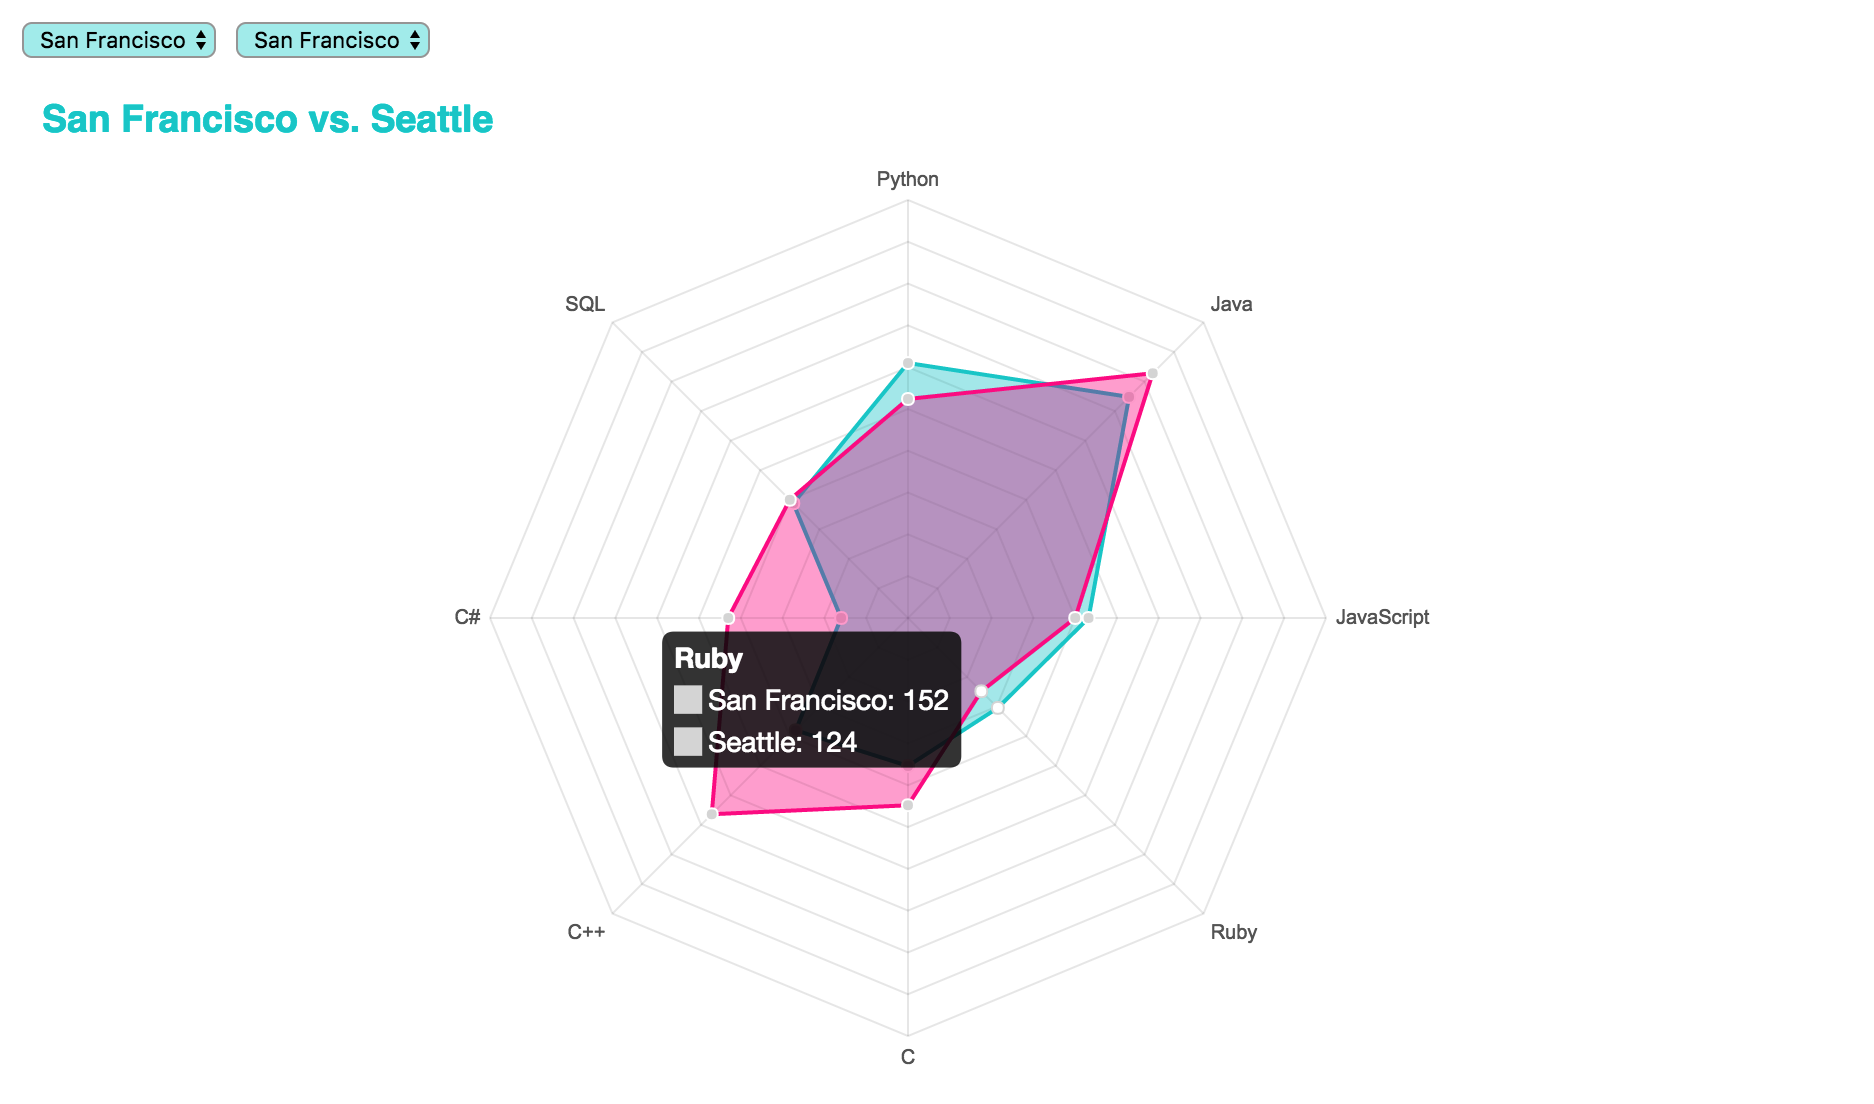
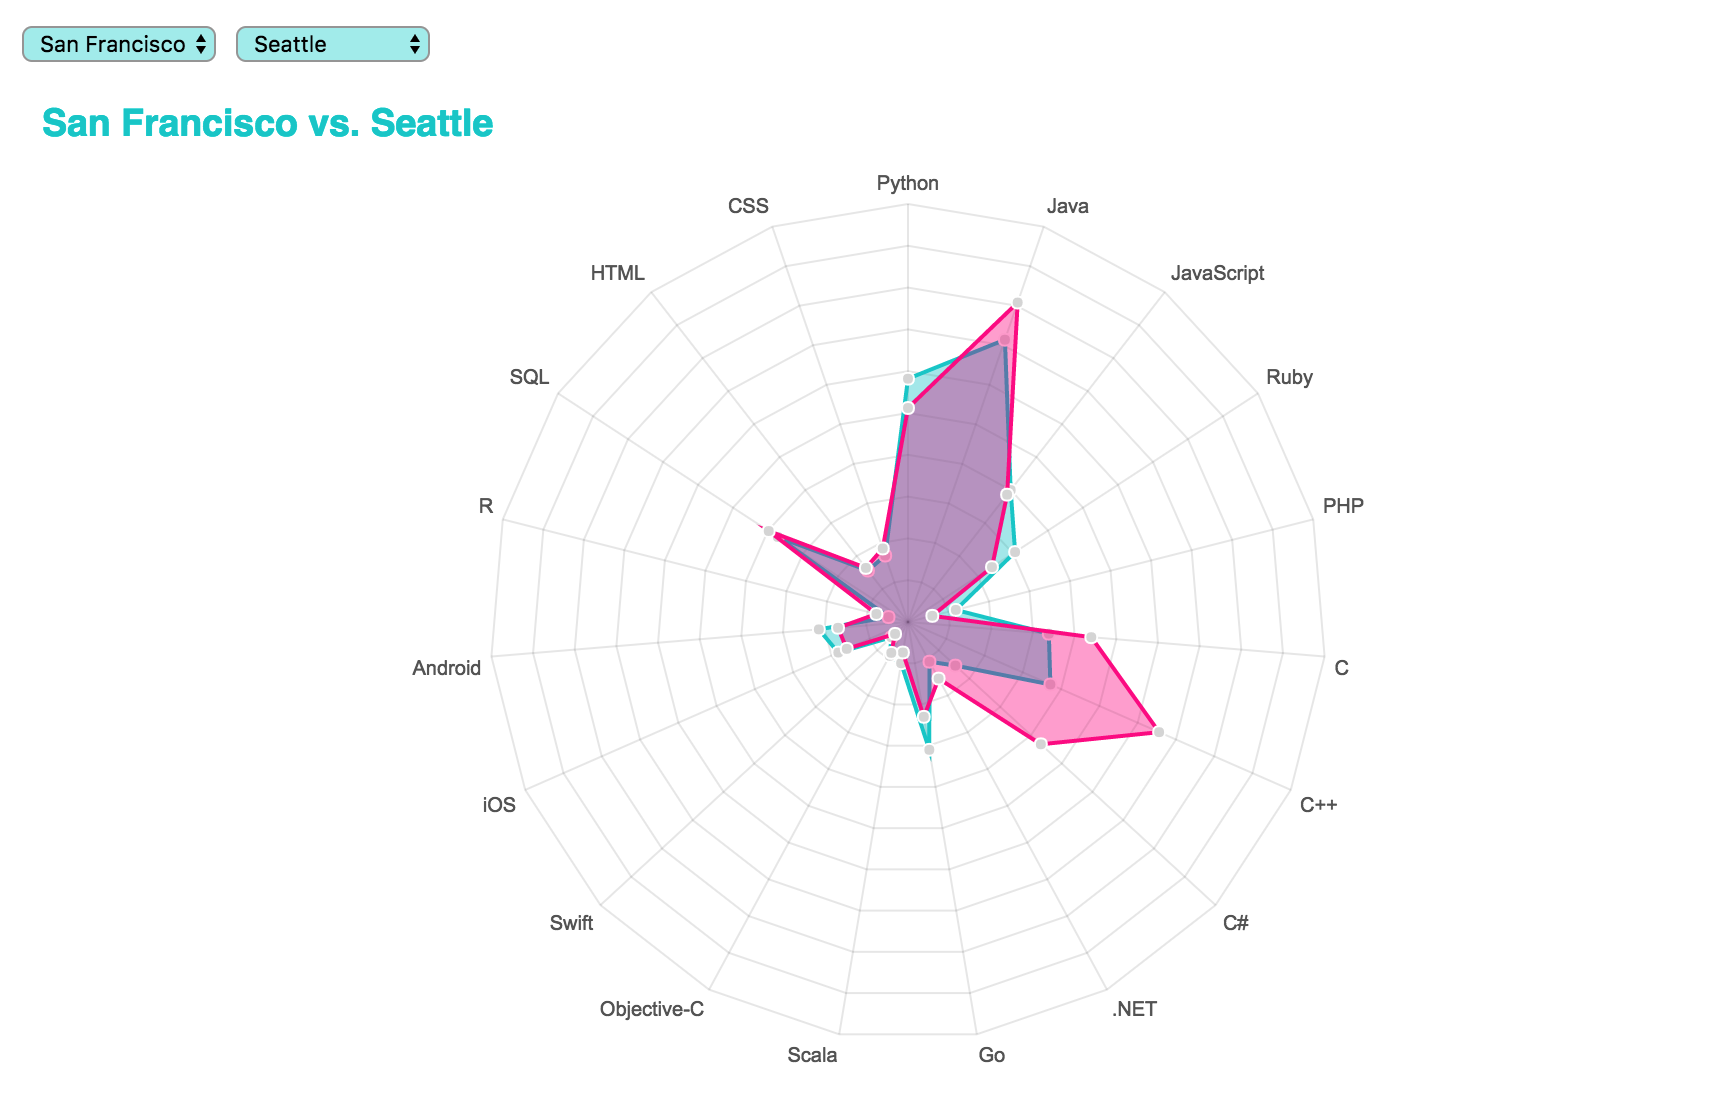
add full language array

diff --git a/src/App.js b/src/App.js
@@ -8,9 +8,9 @@ class App extends Component {
 
     host = window.location.hostname;
 
-    // languages = ['Python', 'Java', 'JavaScript', 'Ruby', 'PHP', 'C', 'C++', 'C#', '.NET', 'Go', 'Scala', 'Objective-C', 'Swift', 'iOS', 'Android', 'R', 'SQL', 'HTML', 'CSS'];
+    // languages = ['Python', 'Java', 'JavaScript', 'Ruby', 'C', 'C++', 'C#', 'SQL'];  // test set
+    languages = ['Python', 'Java', 'JavaScript', 'Ruby', 'PHP', 'C', 'C++', 'C#', '.NET', 'Go', 'Scala', 'Objective-C', 'Swift', 'iOS', 'Android', 'R', 'SQL', 'HTML', 'CSS'];
     // remove lisp, elm, rust, VB, Golang from full set
-    languages = ['Python', 'Java', 'JavaScript', 'Ruby', 'C', 'C++', 'C#', 'SQL'];  // test set
     locations = ['Seattle', 'San Francisco', 'Los Angeles', 'Chicago', 'Denver', 'Austin', 'New York City', 'Boston'];
 
     state = {};
@@ -38,7 +38,7 @@ class App extends Component {
             var query = "software engineer " + language;
             this.locations.forEach( (location) => {
                 $.ajax({
-                    url: "http://" + this.host + ":5000",
+                    url: "http://" + this.host + ":5000", // talk to server on current page host at port 5000
                     method: 'get',
                     data: {
                         q: query,

diff --git a/README.md b/README.md
@@ -2,27 +2,44 @@
 
 Data visualization using React-Chartjs to illustrate the most popular programming languages by US city according to Indeed.com job search results from the previous 15 days.
 
-Deployed using Digital Ocean: [hello](http://indeed.meowsergirl.com/)
+Deployed using NGINX and Digital Ocean: http://indeed.meowsergirl.com/
 
 For more details about the data: link to medium
 
-[![Chart][(https://github.com/loopDelicious/indeed/blob/master/radar.png)](http://www.indeed.meowsergirl.com/#city-compare)
+[![Chart](https://github.com/loopDelicious/indeed/blob/master/radar.png)](http://www.indeed.meowsergirl.com/#city-compare)
 
-[![Chart][(https://github.com/loopDelicious/indeed/blob/master/bar.png)](http://www.indeed.meowsergirl.com/#all-cities)
+[![Chart](https://github.com/loopDelicious/indeed/blob/master/bar.png)](http://www.indeed.meowsergirl.com/#all-cities)
 
 
 ### For Development
 
    Start React watcher
    
-   `npm start`  
+   `$ npm start`  
 
    Run server
    
-   `nodemon proxy.js`
+   `$ nodemon proxy.js`
    
    Start Redis to cache results every hour
    
-   `redis-server`
+   `$ redis-server`
+   
+### For Deployment
+
+    Secure shell into remote server
+    
+    Install dependencies
+    
+    `npm install -g react-scripts`
+    
+    `npm install -g forever`
+    
+    Start Redis and daemonize server
+    
+    `sudo apt-get install redis-server`
+    
+    `forever start src/proxy.js`
+    
    
   
